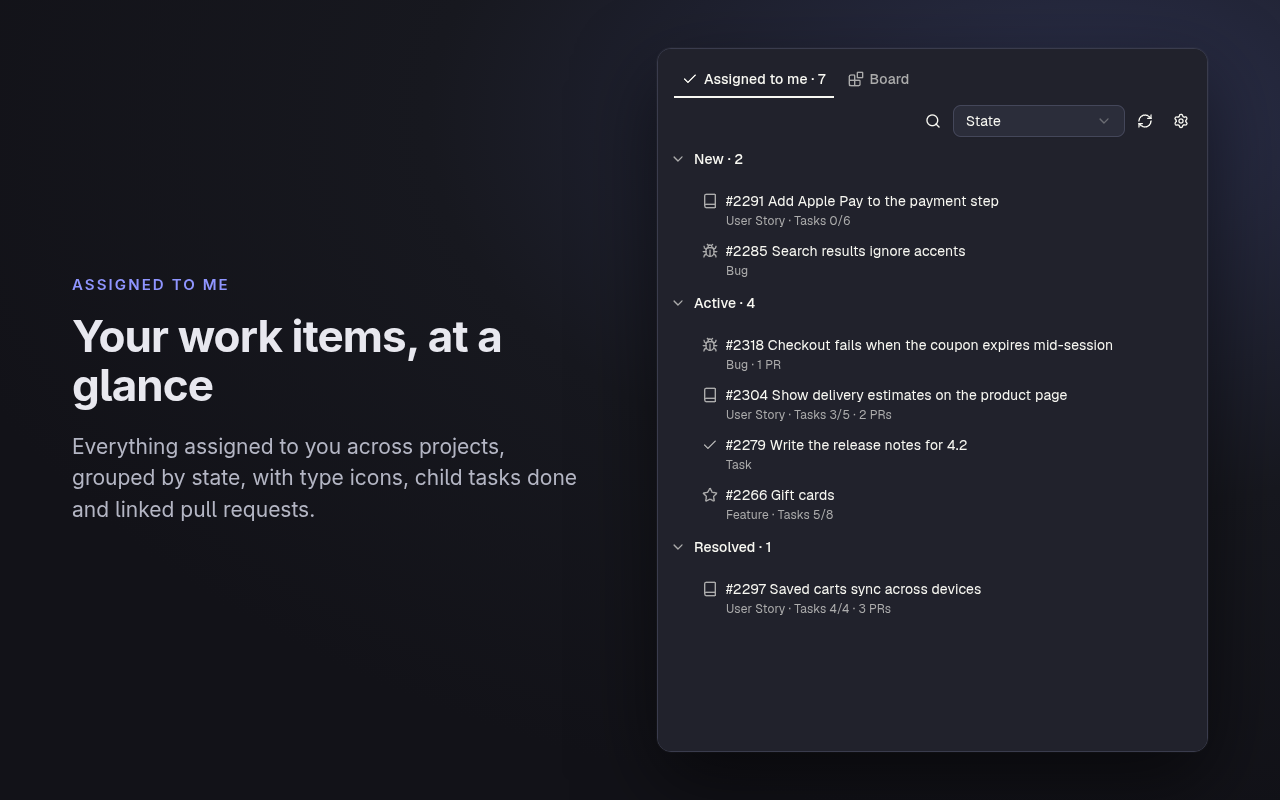
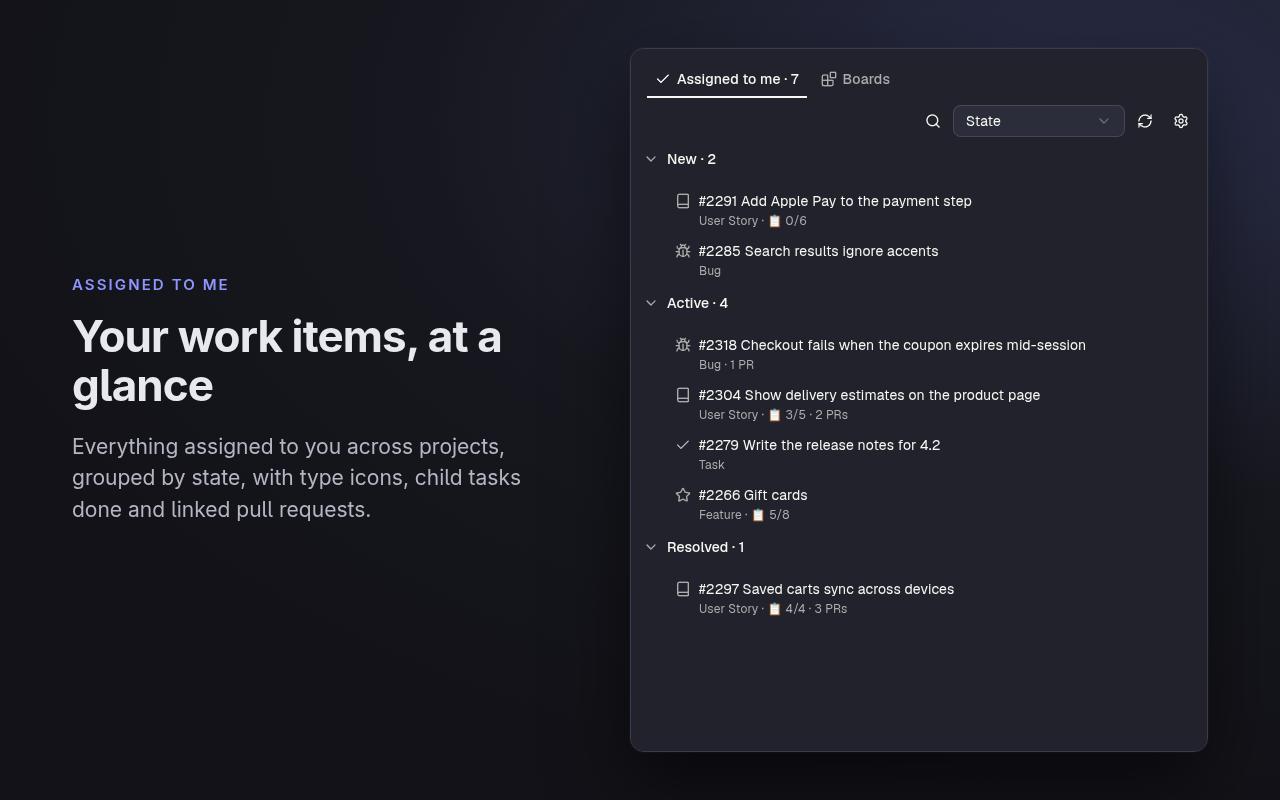
🍱 assets: retake the cover and the other screenshots
Assigned to me, item actions, Start work, search and the cover now show
the Boards tab with a button per team instead of the old Board tab.

diff --git a/README.md b/README.md
@@ -1,6 +1,6 @@
 # Azure Boards for Orca
 
-![Azure Boards for Orca: the team board and the Start work form in Orca's sidebar](assets/cover.png)
+![Azure Boards for Orca: a team board and the Start work form in Orca's sidebar](assets/cover.png)
 
 Your Azure Boards work items in [Orca](https://github.com/stablyai/orca)'s sidebar: see what is assigned to you and your teams' boards, move items, and hand one to a coding agent with a ready prompt.
 
